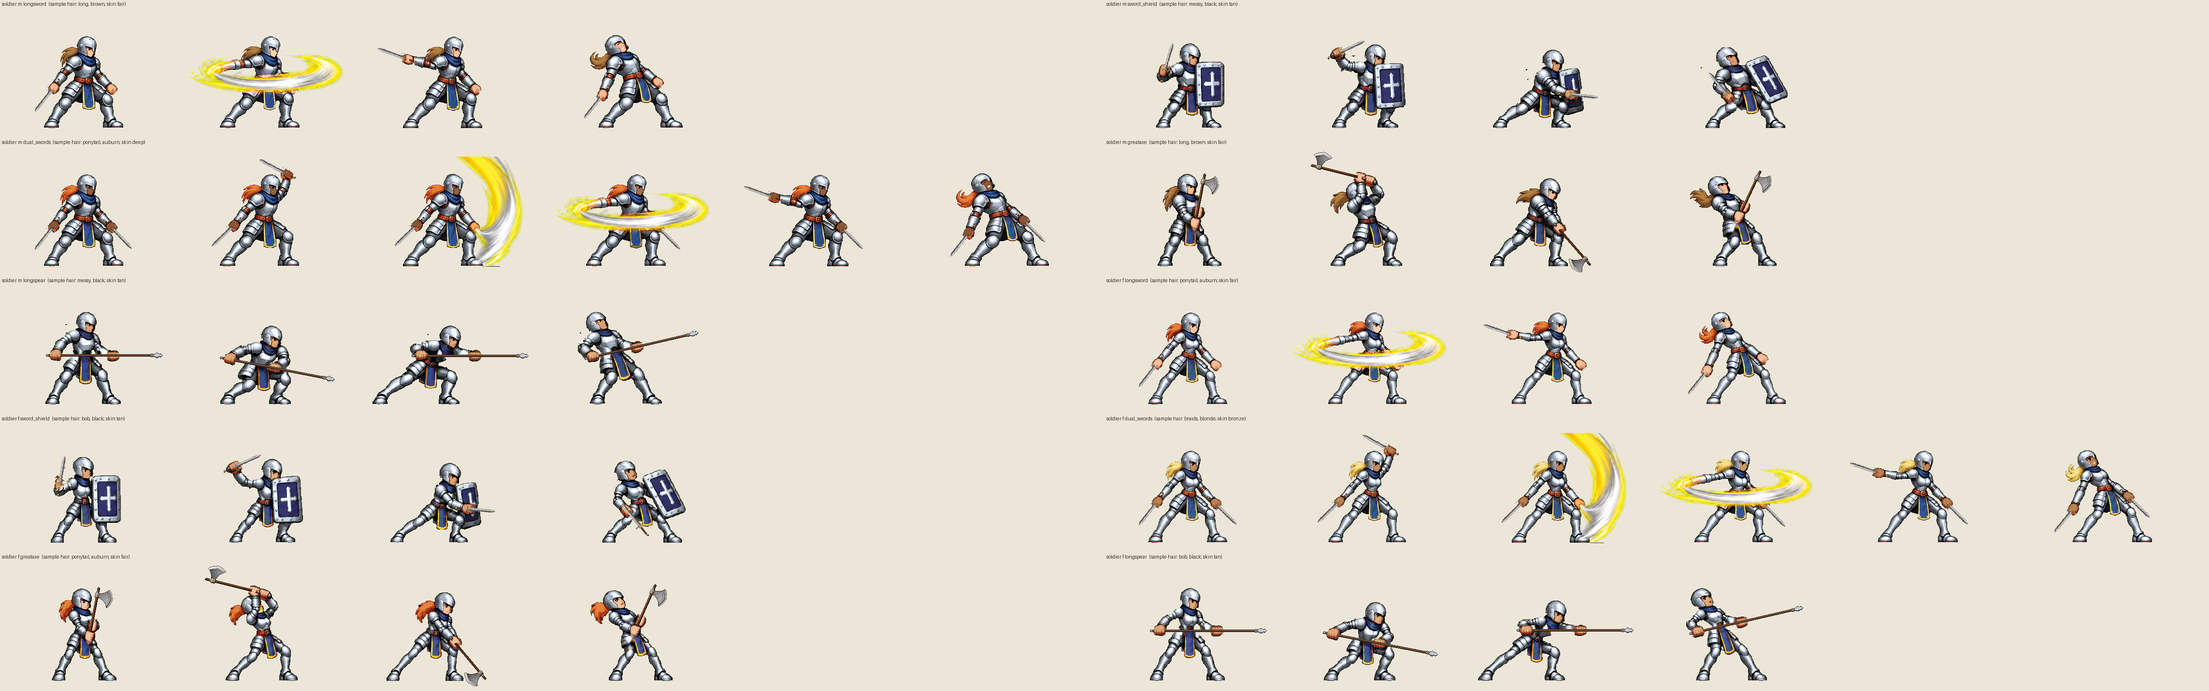
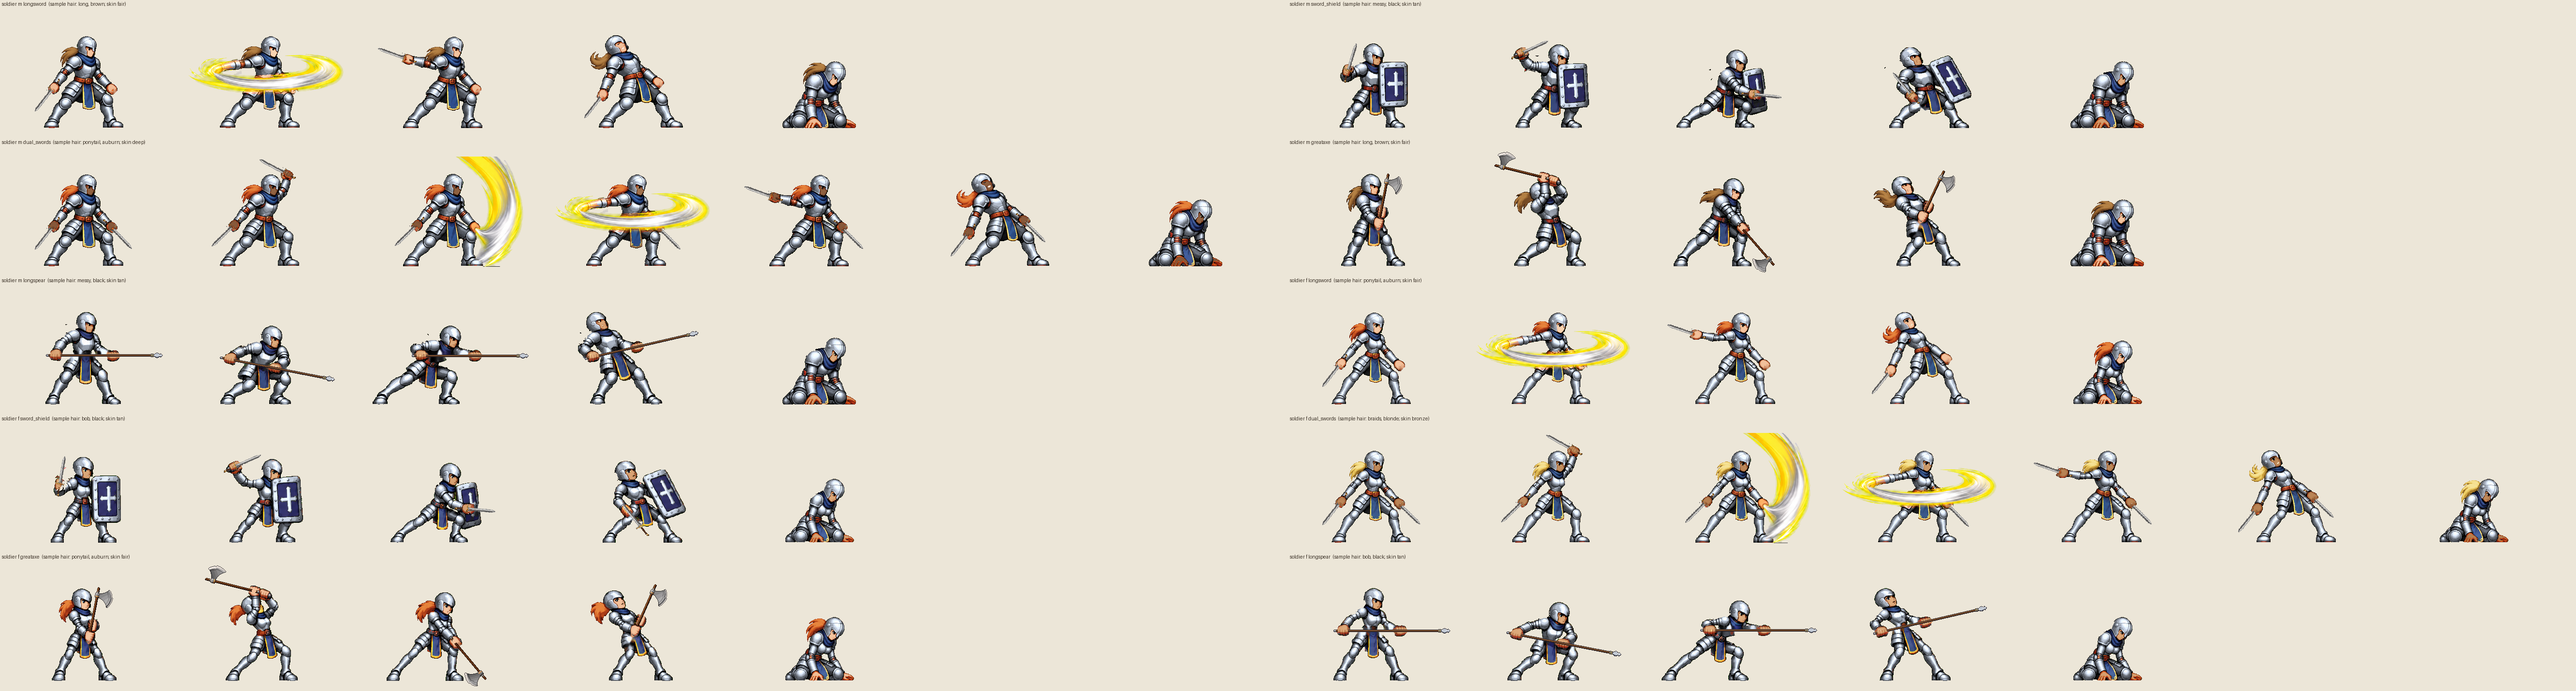
Soldier downed sprite (both sexes, shared by every loadout)
Claude-Session: https://claude.ai/code/session_01M8ejkLTav7LEMdtajuWjkN

diff --git a/art_source/new_art/battle/process_battle.py b/art_source/new_art/battle/process_battle.py
@@ -145,7 +145,7 @@ def clean_rods(a, rods, on):
 
 
 # ---------------------------------------------------------------- skin key (shades of yellow/orange)
-def skin_split(a, fgm, grips):
+def skin_split(a, fgm, grips, head_frac=0.24):
     r, g, b = a[..., 0].astype(int), a[..., 1].astype(int), a[..., 2].astype(int)
     key = fgm & (r > 120) & (g > 0.5 * r) & (b < 0.55 * r) & (r - b > 70)
     lab, n = ndi.label(key, np.ones((3, 3)))
@@ -155,7 +155,7 @@ def skin_split(a, fgm, grips):
         m = lab == i; sz = m.sum()
         if sz < 6: continue
         cy, cx = np.argwhere(m).mean(0)
-        head = (cy - top) / Hh < 0.24 and sz >= 25
+        head = (cy - top) / Hh < head_frac and sz >= 25
         hand = any(m[max(0, int(p[1]) - 6):int(p[1]) + 7, max(0, int(p[0]) - 6):int(p[0]) + 7].any() for p in grips)
         if head or hand: keep.append(i)
     m = np.isin(lab, keep)
@@ -282,7 +282,9 @@ def one_cell(cls, sex, stance, state, c, fg, s):
     m = PP.rod_mask(body); cy = PP.cyan_mask(body)
     PP.ANIM = st if st != 'stand' else 'hit'
     o = 'attack' if st == 'attack' else 'hit'
-    if stance == 'dual' and state in SLASH_HIDE and min(m.sum(), cy.sum()) <= 8:
+    if stance == 'downed':                  # knocked out: empty hands, no rods, shared by every loadout
+        g = {}; rods = np.zeros_like(m)
+    elif stance == 'dual' and state in SLASH_HIDE and min(m.sum(), cy.sum()) <= 8:
         # the swinging hand's weapon is drawn as a smear in the effect layer: only the other hand has a rod
         vis = 'back' if SLASH_HIDE[state][0] == 'front' else 'front'; vr = m if vis == 'back' else cy
         g = {vis: toward_longer(hand(vr, body), vr)}
@@ -312,7 +314,16 @@ def one_cell(cls, sex, stance, state, c, fg, s):
             g[hh]['angle'] = round(float((g[hh]['angle'] + 360) % 360 - 180), 1)
     clean, on = clean_rods(body, rods, on)
     pts = [v['point'] for v in g.values() if isinstance(v, dict) and 'point' in v]
-    fixed, skin, head, hairp = skin_split(clean, on, pts)
+    hf = 0.24
+    if stance == 'downed':                  # kneeling: the face sits lower; the gloves rest on the ground (no grips)
+        hf = 0.42
+        r_, g_, b_ = [clean[..., i].astype(int) for i in range(3)]
+        key = on & (r_ > 120) & (g_ > 0.5 * r_) & (b_ < 0.55 * r_) & (r_ - b_ > 70) & (g_ < 0.75 * r_)   # orange gloves, not gold trim
+        lab_, n_ = ndi.label(key, np.ones((3, 3))); ys_ = np.where(on.any(1))[0]
+        for i in range(1, n_ + 1):
+            yy_, xx_ = np.where(lab_ == i)
+            if len(yy_) >= 25 and yy_.mean() > ys_.min() + 0.7 * (ys_.max() - ys_.min()): pts.append([xx_.mean(), yy_.mean()])
+    fixed, skin, head, hairp = skin_split(clean, on, pts, hf)
     n = f'{cls}_{sex}_{stance}_{state}'
     if cls in METAL_ARMOUR: fixed = to_steel(fixed)
     Image.fromarray(fixed).save(os.path.join(HERE, 'layers', f'{n}_fixed.png'))
@@ -382,7 +393,22 @@ def process(cls):
             c, fg = cut_cell(b2, (round(box[0] * k2[0]), round(box[1] * k2[1]), round(box[2] * k2[0]), round(box[3] * k2[1])))
             name = f'{state}_{tag}' if tag else state          # empty tag = the fix sheet REPLACES that cell
             data[(sex, stance, name)] = one_cell(cls, sex, stance, name, c, fg, s)
+    process_downed(cls, data)
     return data
+
+
+def process_downed(cls, data):
+    """<cls>_downed_sheet.png (templates/<cls>_downed_template.png, user 2026-11-24): one downed sprite per sex for every
+    loadout. Top row: male | female downed; bottom row: their STAND figures, which give the scale (a kneeling figure
+    must not be scaled up to standing height)."""
+    p = os.path.join(HERE, 'source', f'{cls}_downed_sheet.png')
+    if not os.path.exists(p): return
+    a = np.asarray(Image.open(p).convert('RGB')); sx, sy = a.shape[1] / 1536, a.shape[0] / 1024
+    for col, sex in ((0, 'm'), (1, 'f')):
+        box = lambda r: (round(col * 512 * sx), round(r * 512 * sy), round((col + 1) * 512 * sx), round((r + 1) * 512 * sy))
+        s_ = FIG_H / figure_height(*cut_cell(a, box(1)))[0]
+        c, fg = cut_cell(a, box(0))
+        data[(sex, 'downed', 'downed')] = one_cell(cls, sex, 'downed', 'downed', c, fg, s_)
 
 
 def split2h(g):
@@ -483,6 +509,17 @@ def render(cls, data):
                     A.paste(im := im.copy(), hl, A.CELL + dx + hx, A.TOP + dy + hy)
                 frames[state] = im
                 Image.fromarray(im).save(os.path.join(HERE, 'sprites', f'{cls}_{sex}_{load}_{state}.png'))
+            if (sex, 'downed', 'downed') in data and ref is not None:
+                fixed, skin, g, head, hairp = data[(sex, 'downed', 'downed')]
+                b = tint(fixed, skin, sramp)
+                if hairp is not None and hair in HAIR_LEN[sex]['long']:
+                    hm = hairp[..., 1] > 0
+                    b = b.copy(); b[hm, :3] = finish.ramp_rgb(finish.PAL['hair'][hramp], hairp[..., 0][hm].astype(float)).astype(np.uint8); b[hm, 3] = 255
+                fx_, fy = feet(b)
+                dx = round(CANVAS_FEET[0] - fx_) - A.CELL; dy = round(CANVAS_FEET[1] - fy) - A.TOP
+                im = A.frame(cls, f'{sex}_downed', sramp, [], (dx, dy, 0, 0, None), [], 'attack', {}, b)
+                frames['downed'] = im
+                Image.fromarray(im).save(os.path.join(HERE, 'sprites', f'{cls}_{sex}_{load}_downed.png'))
             rows.append((f'{cls} {sex} {load}  (sample hair: {hair}, {hramp}; skin {sramp})', frames))
     x0, x1 = 20, 399
     cw = x1 - x0; ch = 270

diff --git a/docs/design-decisions.md b/docs/design-decisions.md
@@ -28,7 +28,7 @@ Armor ladder: **cloth → light → medium → heavy**. "Up to X" includes every
 
 Archer and Mage melee weapons limited to **light** weapons on 2026-11-16 (user: "wear only light weapon", read as weapons, not armor). Read as light **simple** weapons, since both classes were simple-only before; light martial (short sword, kukri) not confirmed. In PF1e sizes, club and shortspear (both in the user's original Archer list) are one-handed, not light, so they are now excluded unless the user re-sizes them.
 
-**Shields (user, 2026-11-20): each class has its own shield shape** — Soldier = **square** shield, Acolyte and Warrior = **round** shield (the Warrior could not use shields before; this adds it), **kite shield = reserved for a future Knight class**. A one-handed weapon **without** a shield uses the **dual-weapon stance** (left hand empty) in battle sprites. **The shield look is fixed per class** (user, 2026-11-20): shield equipment comes in broad categories (**light shield, heavy shield, tower shield**) that change the rules only; the sprite and the shield stance always show the class's own shield. Shield categories are not in the weapon sheet yet. **Headgear (user, 2026-11-20): battle sprites wear class headgear, portraits never do.** It is drawn into the sprite body by ChatGPT, so battle sprites have **no hair layer** (the portrait-hair sample is dropped for helmeted classes, `HEADGEAR` in `process_battle.py`). **Soldier final design** (`source/concepts/soldier_final_design.png`): plain open-face **barbute helm** (no crest, gold or emblem), simple silver plate armour, blue scarf and tabard, brown leather belt and gloves; the face is the only skin (yellow key). Soldier v3 prompt in `PROMPTS.md` (4 rows: square shield, dual, two-handed, spear), ~6 heads tall including the helmet. Helmet variations and faction colours on that sheet are not used. **Hair under the helmet (user, 2026-11-20):** ChatGPT draws a long-hair ponytail behind the neck in shades of **pure red** (never covering the body); `process_battle.py` cuts it into a hair value-map layer tinted with the hero's hair ramp and shows it **only for long portrait hairstyles** (`art_source/new_art/battle/hair_length.json`: male ponytail, long, wild_mane; female long, ponytail, braids, wavy, side_braid, curly_mane, warrior_halfup; buns/topknots/crown braids count as short). Both sexes get the piece. **Four sprites per stance (user, 2026-11-20, extends the three-sprite rule):** STAND | **READY** (the wind-up a moment before the attack) | ATTACK | GET HIT; the **dual row** is STAND | **ATTACK 1 (main hand)** | **ATTACK 2 (off-hand)** | GET HIT, because dual wield hits twice. Playback: stand → ready → attack → stand (dual: stand → attack 1 → attack 2 → stand); one weapon in the dual stance uses only attack 1. Soldier template is now 4 × 4 (`make_refs.py` `CLASS_STATES`), prompt v5 in `PROMPTS.md`. **Hand convention (corrected 2026-11-20):** in right-facing sprites the character's **LEFT arm is the lead arm** (right side of the picture, the shield arm) and the **RIGHT arm is the rear arm**; magenta (main weapon) is always in the right/rear hand, cyan in the left/lead hand, and the main-hand attack swings the rear arm forward across the body. An earlier prompt rule ("right hand leading on the right of the picture") was wrong and made ChatGPT draw both dual attacks with the left arm; the v5 male sheet's dual stand/hit are swapped back in code (`SWAP_HANDS`) and its ATTACK 1 needs the edit prompt in `PROMPTS.md`. **Dual weapons get their own sheet (user's dual-slash concept, 2026-11-21):** stand → ready (front/cyan arm winds up) → slash 1 (cyan chops down) → slash 2 (magenta sweeps across) → finish (magenta follow-through) → plus get hit; template `soldier_dual_template.png` (2 × 3), prompt names the arms only by rod colour (front arm = cyan, back arm = magenta), never left/right. Main Soldier sheet is now 3 rows × 4 (shield, two-handed, spear). One weapon without shield plays stand → slash 2 → finish from the magenta hand. The off-hand (cyan) hit shows first, the main hand second. **Slash waves (user, 2026-11-21):** in slash 1 the cyan weapon is hidden behind a slash wave (a chop arc from overhead down to the front foot), in slash 2 the magenta weapon is hidden behind a waist-level sweep wave; both weapons show again in finish (`SLASH_HIDE` / `slash_wave()` in `process_battle.py`). **Male dual sheet hand-fixed (2026-11-21):** ChatGPT kept putting the cyan rod on the near arm in slash 1 and swinging the main arm forward in slash 2 / finish, so those cells were rebuilt in code from the sheet's own parts (raw sheet in `source/concepts/soldier_dual_m_gpt_raw.png`); the near arm (big pauldron over the chest, left of the picture) always holds magenta. `SWAP_HANDS` is now empty. **Slash frames = drawn arc + weapon smear (user, 2026-11-21):** the user drew slash 1 and slash 2 in Gemini with a yellow slash arc and a grey **weapon smear** that does not show which weapon was swung (any one-handed weapon fits; a code-drawn motion-blurred sword was rejected as bad design and removed). Gemini then put them into the dual sheet (`source/concepts/soldier_dual_<sex>_sheet_gemini_smear.png`); `tools/green_fx_split.py` lifts the arc and smear off the green into a soft-alpha effect layer (`source/soldier_dual_<sex>_fx.png`) so their yellow never reaches the skin key, and fills the body hidden under the waist sweep. In those frames the swinging hand's weapon is not drawn (the smear stands for it); the other hand's weapon is drawn as usual; fists hidden under the smear are given in `source/soldier_dual_<sex>_grips.json`. `slash_wave()` in code remains the fallback for sheets without a drawn effect. **Female Soldier done (2026-11-21):** both female sheets are Gemini edits of the finished male sheets (main 4 × 4 v5 layout, `SHEET_ROWS` for both sexes; dual with the drawn effects); edit-the-finished-sheet is the method that avoided the arm/hand mistakes. **Metallic armour (user, 2026-11-21):** the AI sheets shade the Soldier's plate with a rosy tint, which read as red armour; `process_battle.py` `to_steel()` (classes in `METAL_ARMOUR`) turns rosy greys into cool steel of the same brightness and the maroon padding between plates into dark steel mail, leaving blue cloth, brown leather, gold trim, hair and skin alone. Applies to every Soldier layer, both sexes. **Dual row:** the first helmet sheets drew the dual stand facing the viewer and the attack side-on, so the weapon seemed to change hands; the Soldier v4 prompt keeps the right hand leading on the right of the figure in all three poses.
+**Shields (user, 2026-11-20): each class has its own shield shape** — Soldier = **square** shield, Acolyte and Warrior = **round** shield (the Warrior could not use shields before; this adds it), **kite shield = reserved for a future Knight class**. A one-handed weapon **without** a shield uses the **dual-weapon stance** (left hand empty) in battle sprites. **The shield look is fixed per class** (user, 2026-11-20): shield equipment comes in broad categories (**light shield, heavy shield, tower shield**) that change the rules only; the sprite and the shield stance always show the class's own shield. Shield categories are not in the weapon sheet yet. **Headgear (user, 2026-11-20): battle sprites wear class headgear, portraits never do.** It is drawn into the sprite body by ChatGPT, so battle sprites have **no hair layer** (the portrait-hair sample is dropped for helmeted classes, `HEADGEAR` in `process_battle.py`). **Soldier final design** (`source/concepts/soldier_final_design.png`): plain open-face **barbute helm** (no crest, gold or emblem), simple silver plate armour, blue scarf and tabard, brown leather belt and gloves; the face is the only skin (yellow key). Soldier v3 prompt in `PROMPTS.md` (4 rows: square shield, dual, two-handed, spear), ~6 heads tall including the helmet. Helmet variations and faction colours on that sheet are not used. **Hair under the helmet (user, 2026-11-20):** ChatGPT draws a long-hair ponytail behind the neck in shades of **pure red** (never covering the body); `process_battle.py` cuts it into a hair value-map layer tinted with the hero's hair ramp and shows it **only for long portrait hairstyles** (`art_source/new_art/battle/hair_length.json`: male ponytail, long, wild_mane; female long, ponytail, braids, wavy, side_braid, curly_mane, warrior_halfup; buns/topknots/crown braids count as short). Both sexes get the piece. **Four sprites per stance (user, 2026-11-20, extends the three-sprite rule):** STAND | **READY** (the wind-up a moment before the attack) | ATTACK | GET HIT; the **dual row** is STAND | **ATTACK 1 (main hand)** | **ATTACK 2 (off-hand)** | GET HIT, because dual wield hits twice. Playback: stand → ready → attack → stand (dual: stand → attack 1 → attack 2 → stand); one weapon in the dual stance uses only attack 1. Soldier template is now 4 × 4 (`make_refs.py` `CLASS_STATES`), prompt v5 in `PROMPTS.md`. **Hand convention (corrected 2026-11-20):** in right-facing sprites the character's **LEFT arm is the lead arm** (right side of the picture, the shield arm) and the **RIGHT arm is the rear arm**; magenta (main weapon) is always in the right/rear hand, cyan in the left/lead hand, and the main-hand attack swings the rear arm forward across the body. An earlier prompt rule ("right hand leading on the right of the picture") was wrong and made ChatGPT draw both dual attacks with the left arm; the v5 male sheet's dual stand/hit are swapped back in code (`SWAP_HANDS`) and its ATTACK 1 needs the edit prompt in `PROMPTS.md`. **Dual weapons get their own sheet (user's dual-slash concept, 2026-11-21):** stand → ready (front/cyan arm winds up) → slash 1 (cyan chops down) → slash 2 (magenta sweeps across) → finish (magenta follow-through) → plus get hit; template `soldier_dual_template.png` (2 × 3), prompt names the arms only by rod colour (front arm = cyan, back arm = magenta), never left/right. Main Soldier sheet is now 3 rows × 4 (shield, two-handed, spear). One weapon without shield plays stand → slash 2 → finish from the magenta hand. The off-hand (cyan) hit shows first, the main hand second. **Slash waves (user, 2026-11-21):** in slash 1 the cyan weapon is hidden behind a slash wave (a chop arc from overhead down to the front foot), in slash 2 the magenta weapon is hidden behind a waist-level sweep wave; both weapons show again in finish (`SLASH_HIDE` / `slash_wave()` in `process_battle.py`). **Male dual sheet hand-fixed (2026-11-21):** ChatGPT kept putting the cyan rod on the near arm in slash 1 and swinging the main arm forward in slash 2 / finish, so those cells were rebuilt in code from the sheet's own parts (raw sheet in `source/concepts/soldier_dual_m_gpt_raw.png`); the near arm (big pauldron over the chest, left of the picture) always holds magenta. `SWAP_HANDS` is now empty. **Slash frames = drawn arc + weapon smear (user, 2026-11-21):** the user drew slash 1 and slash 2 in Gemini with a yellow slash arc and a grey **weapon smear** that does not show which weapon was swung (any one-handed weapon fits; a code-drawn motion-blurred sword was rejected as bad design and removed). Gemini then put them into the dual sheet (`source/concepts/soldier_dual_<sex>_sheet_gemini_smear.png`); `tools/green_fx_split.py` lifts the arc and smear off the green into a soft-alpha effect layer (`source/soldier_dual_<sex>_fx.png`) so their yellow never reaches the skin key, and fills the body hidden under the waist sweep. In those frames the swinging hand's weapon is not drawn (the smear stands for it); the other hand's weapon is drawn as usual; fists hidden under the smear are given in `source/soldier_dual_<sex>_grips.json`. `slash_wave()` in code remains the fallback for sheets without a drawn effect. **Female Soldier done (2026-11-21):** both female sheets are Gemini edits of the finished male sheets (main 4 × 4 v5 layout, `SHEET_ROWS` for both sexes; dual with the drawn effects); edit-the-finished-sheet is the method that avoided the arm/hand mistakes. **Metallic armour (user, 2026-11-21):** the AI sheets shade the Soldier's plate with a rosy tint, which read as red armour; `process_battle.py` `to_steel()` (classes in `METAL_ARMOUR`) turns rosy greys into cool steel of the same brightness and the maroon padding between plates into dark steel mail, leaving blue cloth, brown leather, gold trim, hair and skin alone. Applies to every Soldier layer, both sexes. **Downed sprite (user, 2026-11-24):** one downed pose per sex shared by every Soldier loadout (kneeling on both knees, head hanging, empty hands on the ground; no weapon or shield). ChatGPT drew it on `templates/soldier_downed_template.png` (the finished stand figures in the bottom row as reference); `process_battle.py` `process_downed()` scales it from those stand figures and writes `sprites/soldier_<sex>_<loadout>_downed.png` for every loadout. The game export still shows downed as the greyed hit frame until it picks up the new `downed` state. **Dual row:** the first helmet sheets drew the dual stand facing the viewer and the attack side-on, so the weapon seemed to change hands; the Soldier v4 prompt keeps the right hand leading on the right of the figure in all three poses.
 
 **Warrior look (user, 2026-11-18): a barbarian, but armored** — can wear up to medium armor, so leather and chain or scale over a barbarian build (furs, leather harness), not the old Brawler's sleeveless tunic. Exact outfit to be drawn with the new art. Legacy battle-sprite and portrait files keep the name `brawler` (they are the old look and reference only).
 
